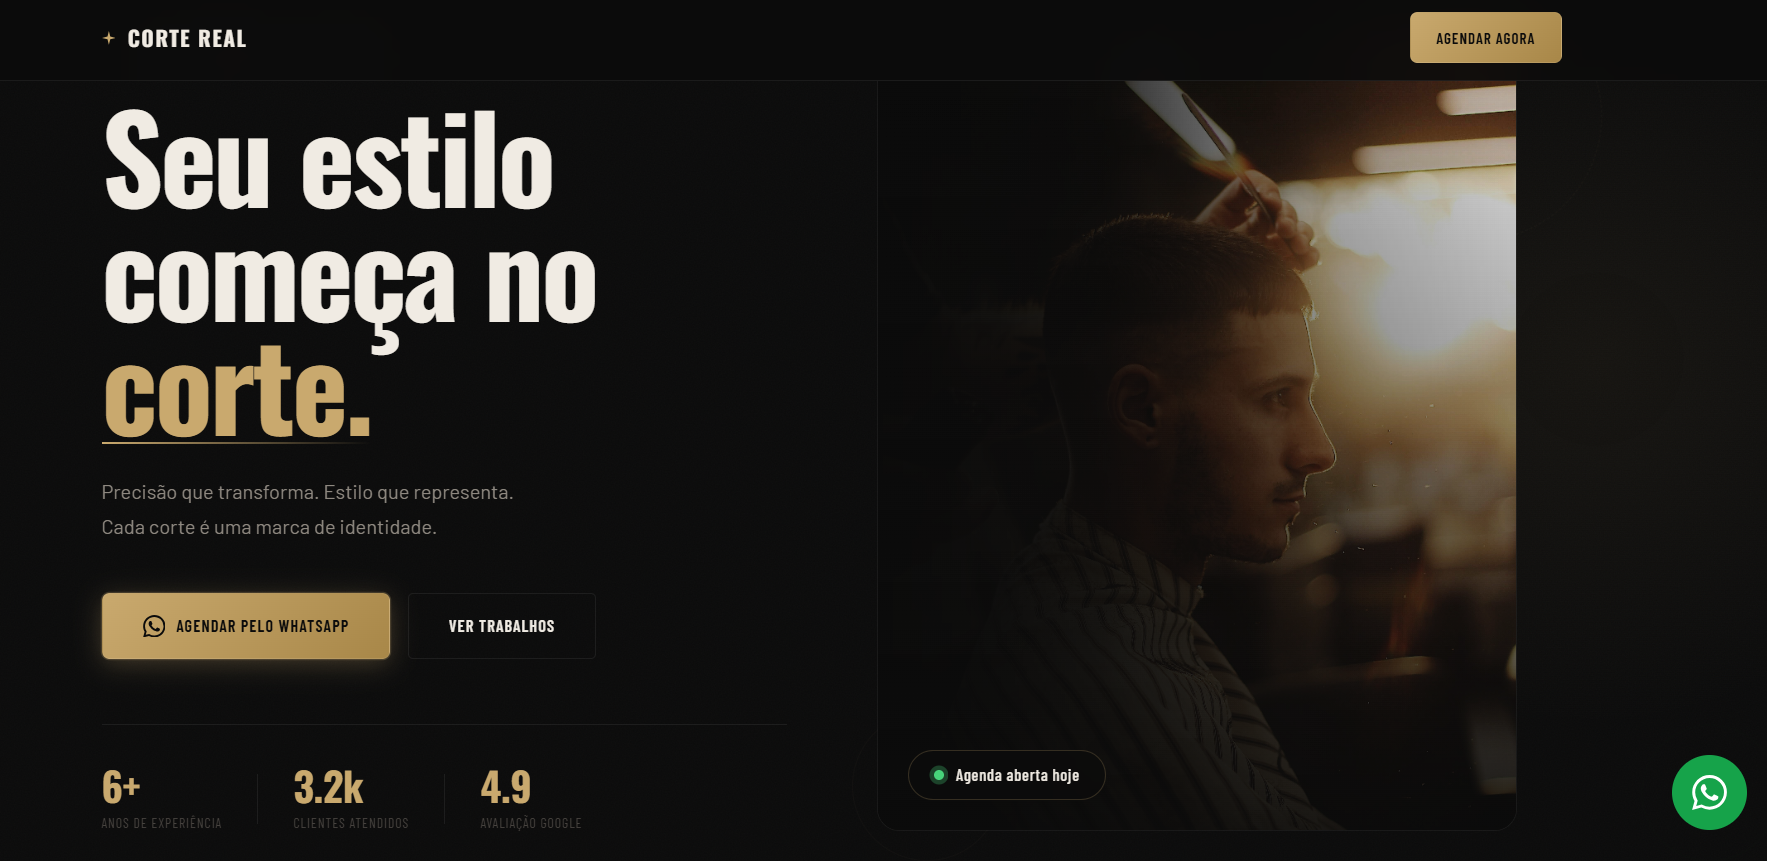
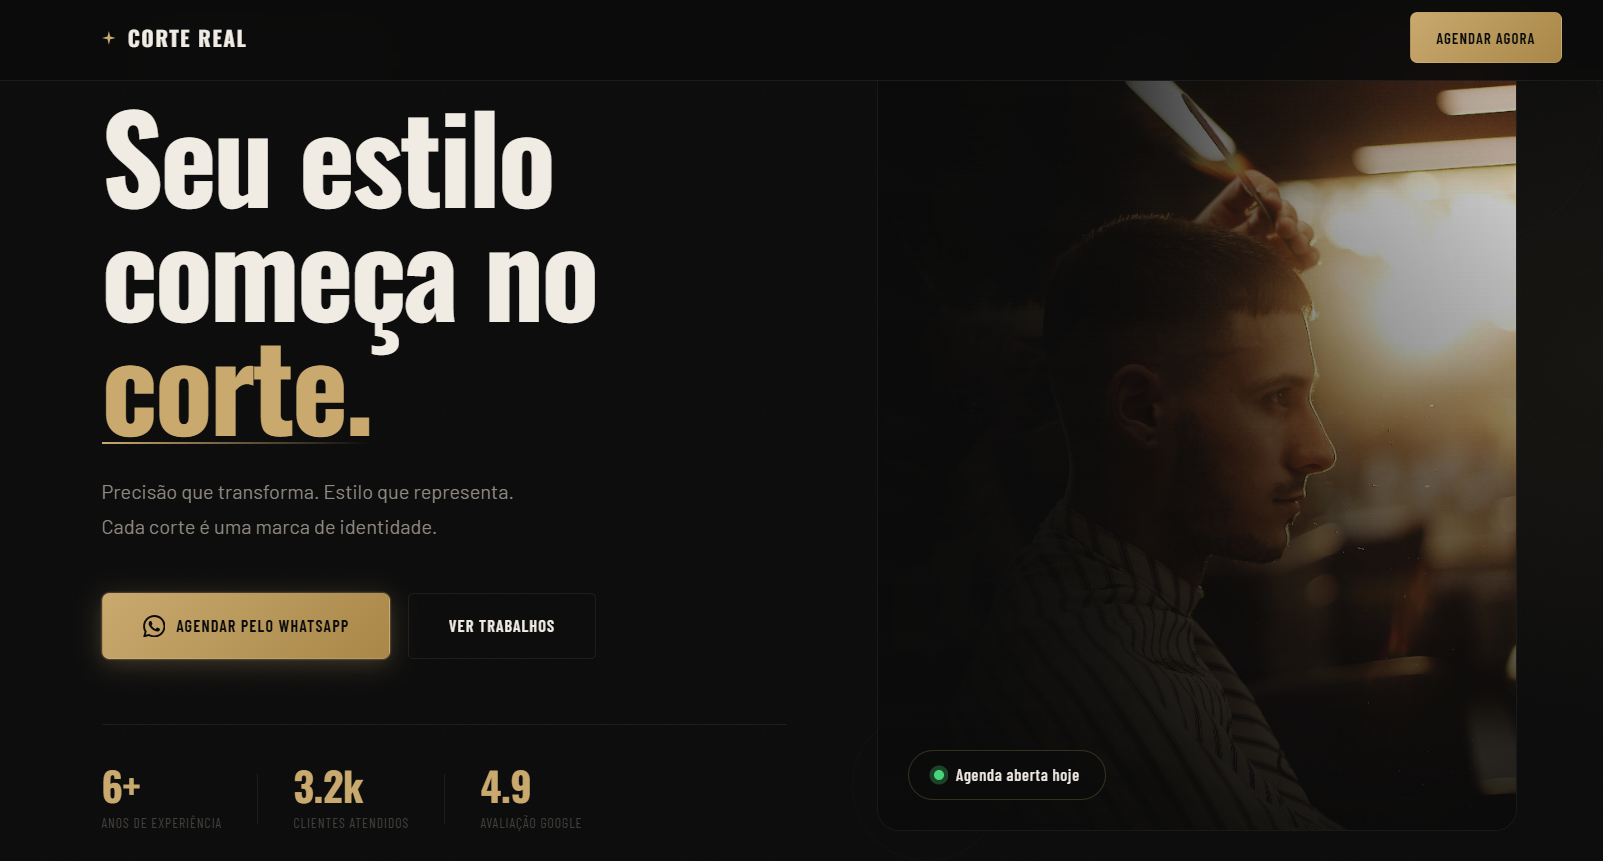
mudei os prints

diff --git a/index.html b/index.html
@@ -388,7 +388,7 @@
         <!-- Card 4 — Frutaria -->
         <div class="proj-card reveal d4">
           <div class="proj-img">
-            <img src="img/frutaria.png" alt="Frutaria" loading="lazy"
+            <img src="img/frutaria-2.0.png" alt="Frutaria" loading="lazy"
               onerror="this.parentElement.innerHTML='<div class=\'proj-ph\'><div class=\'proj-ph-ico\'>🍊</div><div class=\'proj-ph-lbl\'>Frutaria</div></div>'">
             <div class="proj-ov">
               <a href="https://eduardo-ciudad.github.io/frutaria-emporio-norte/" target="_blank" rel="noopener">